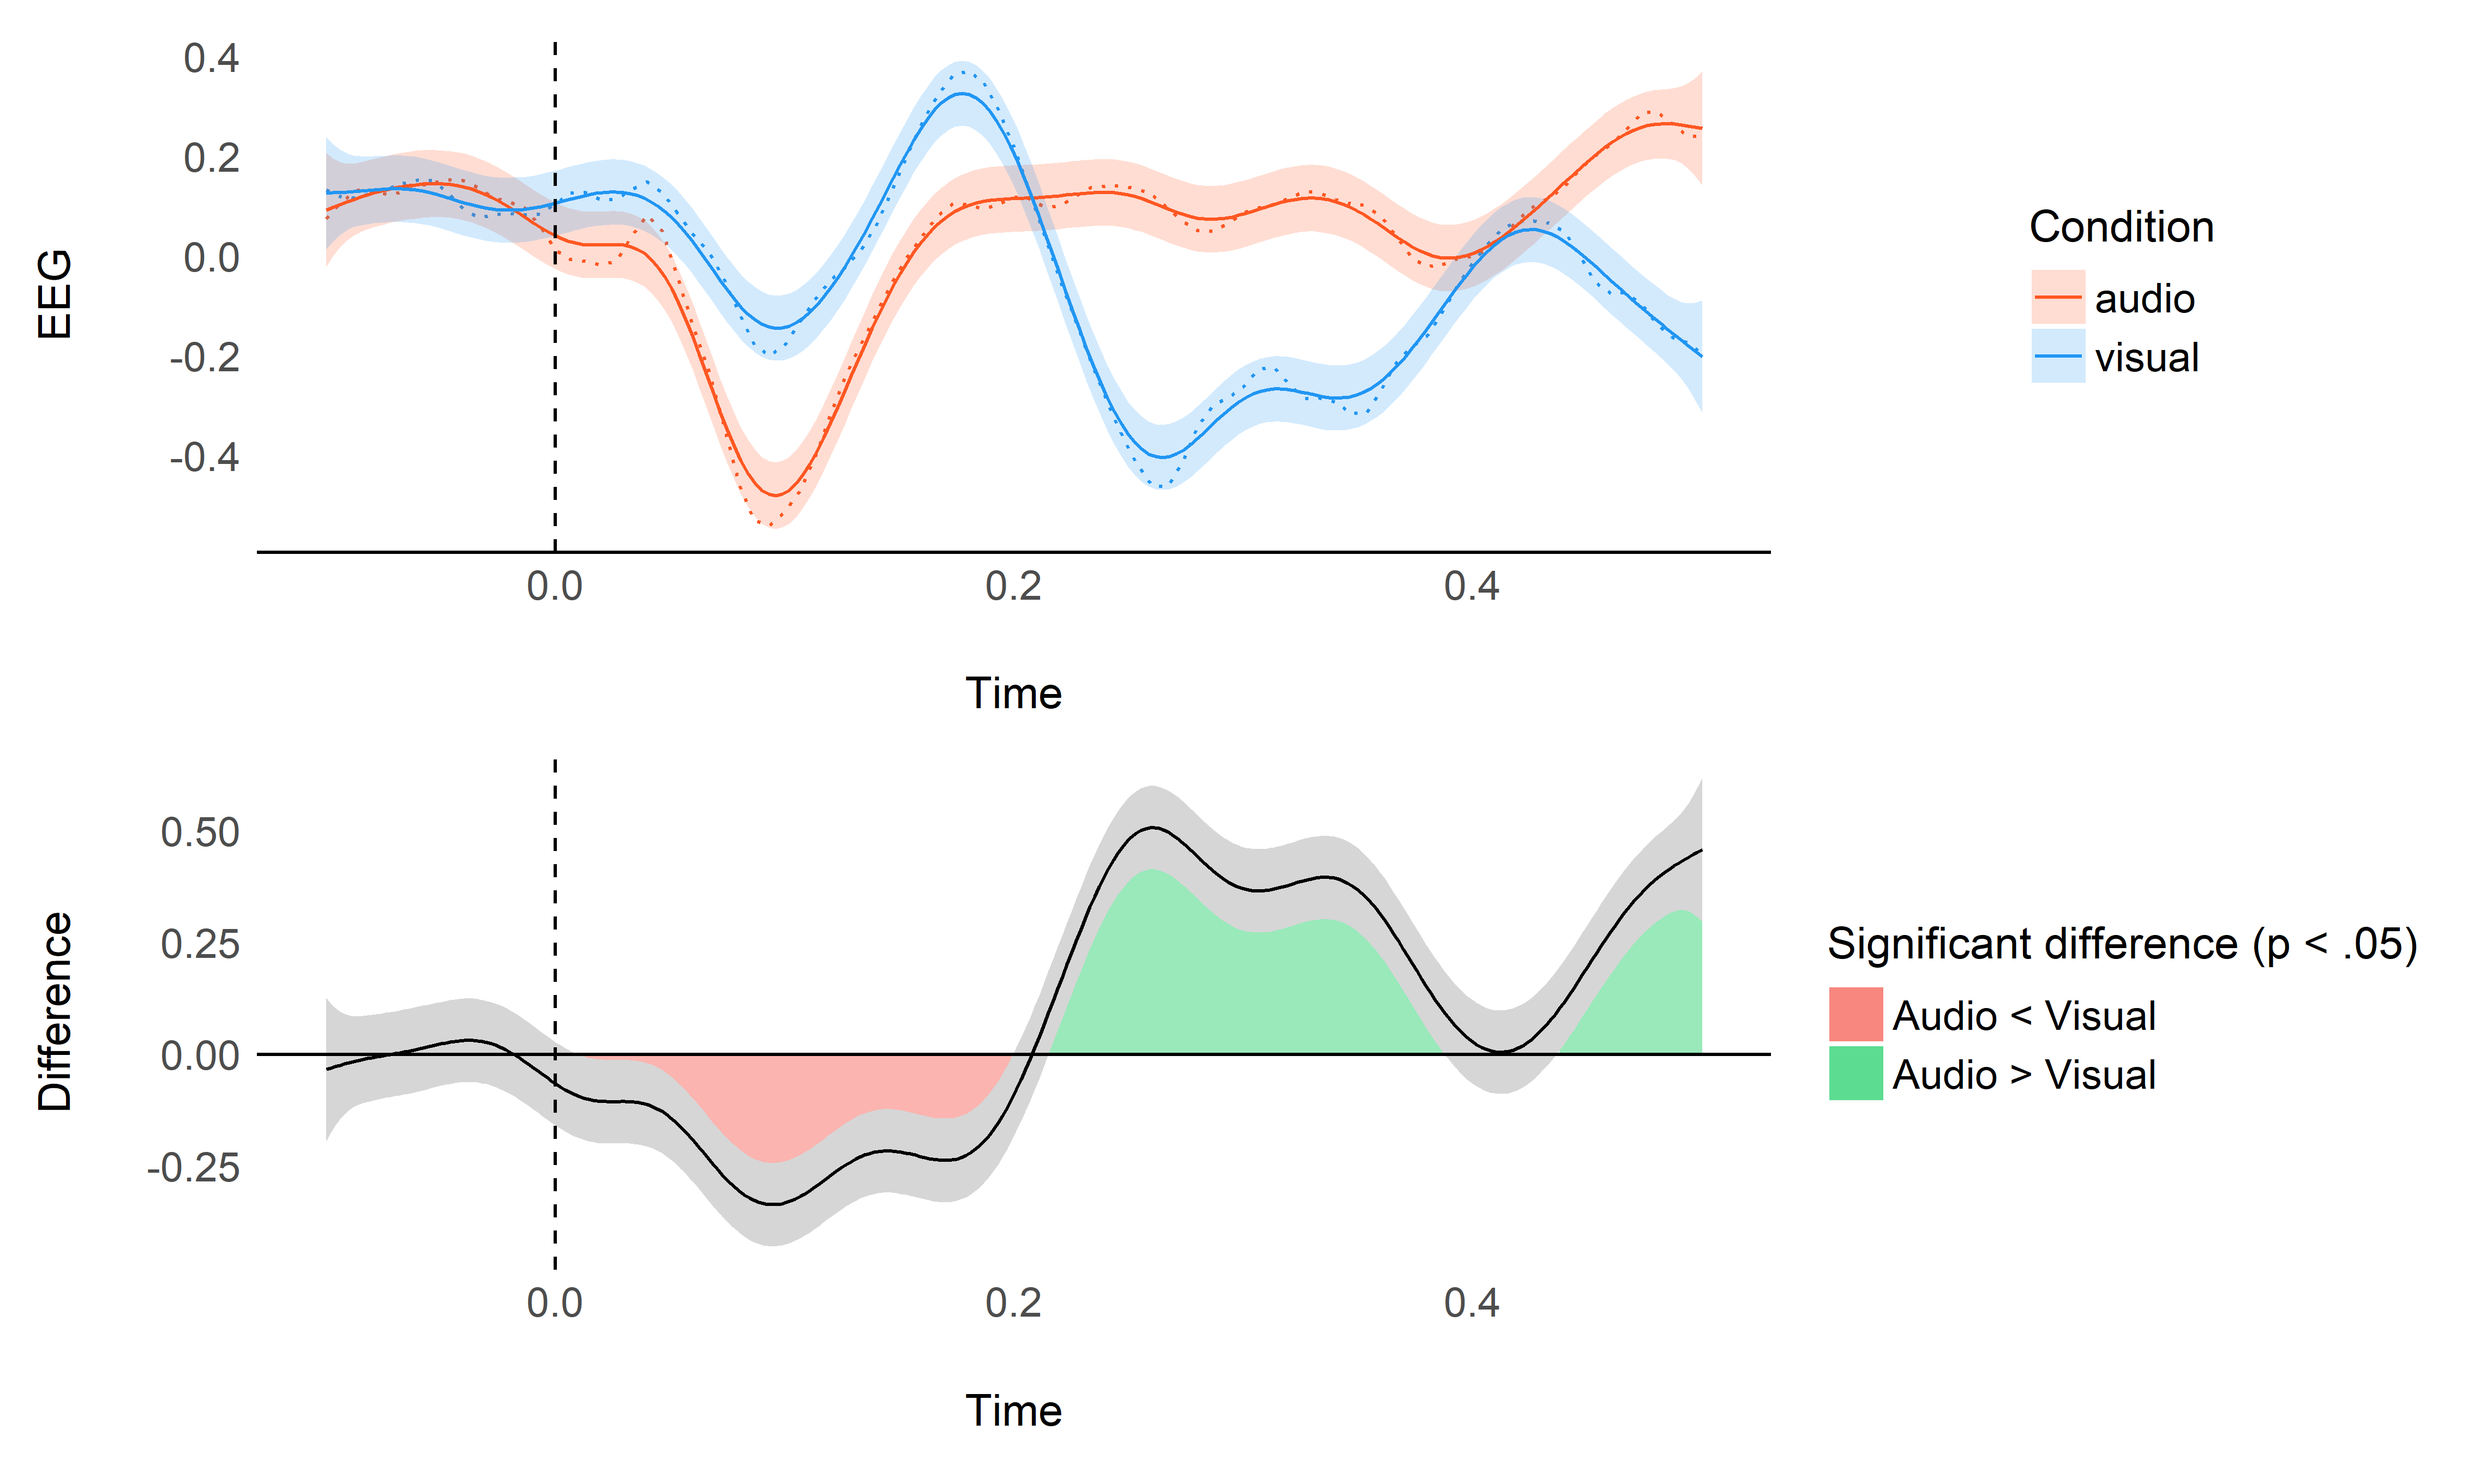
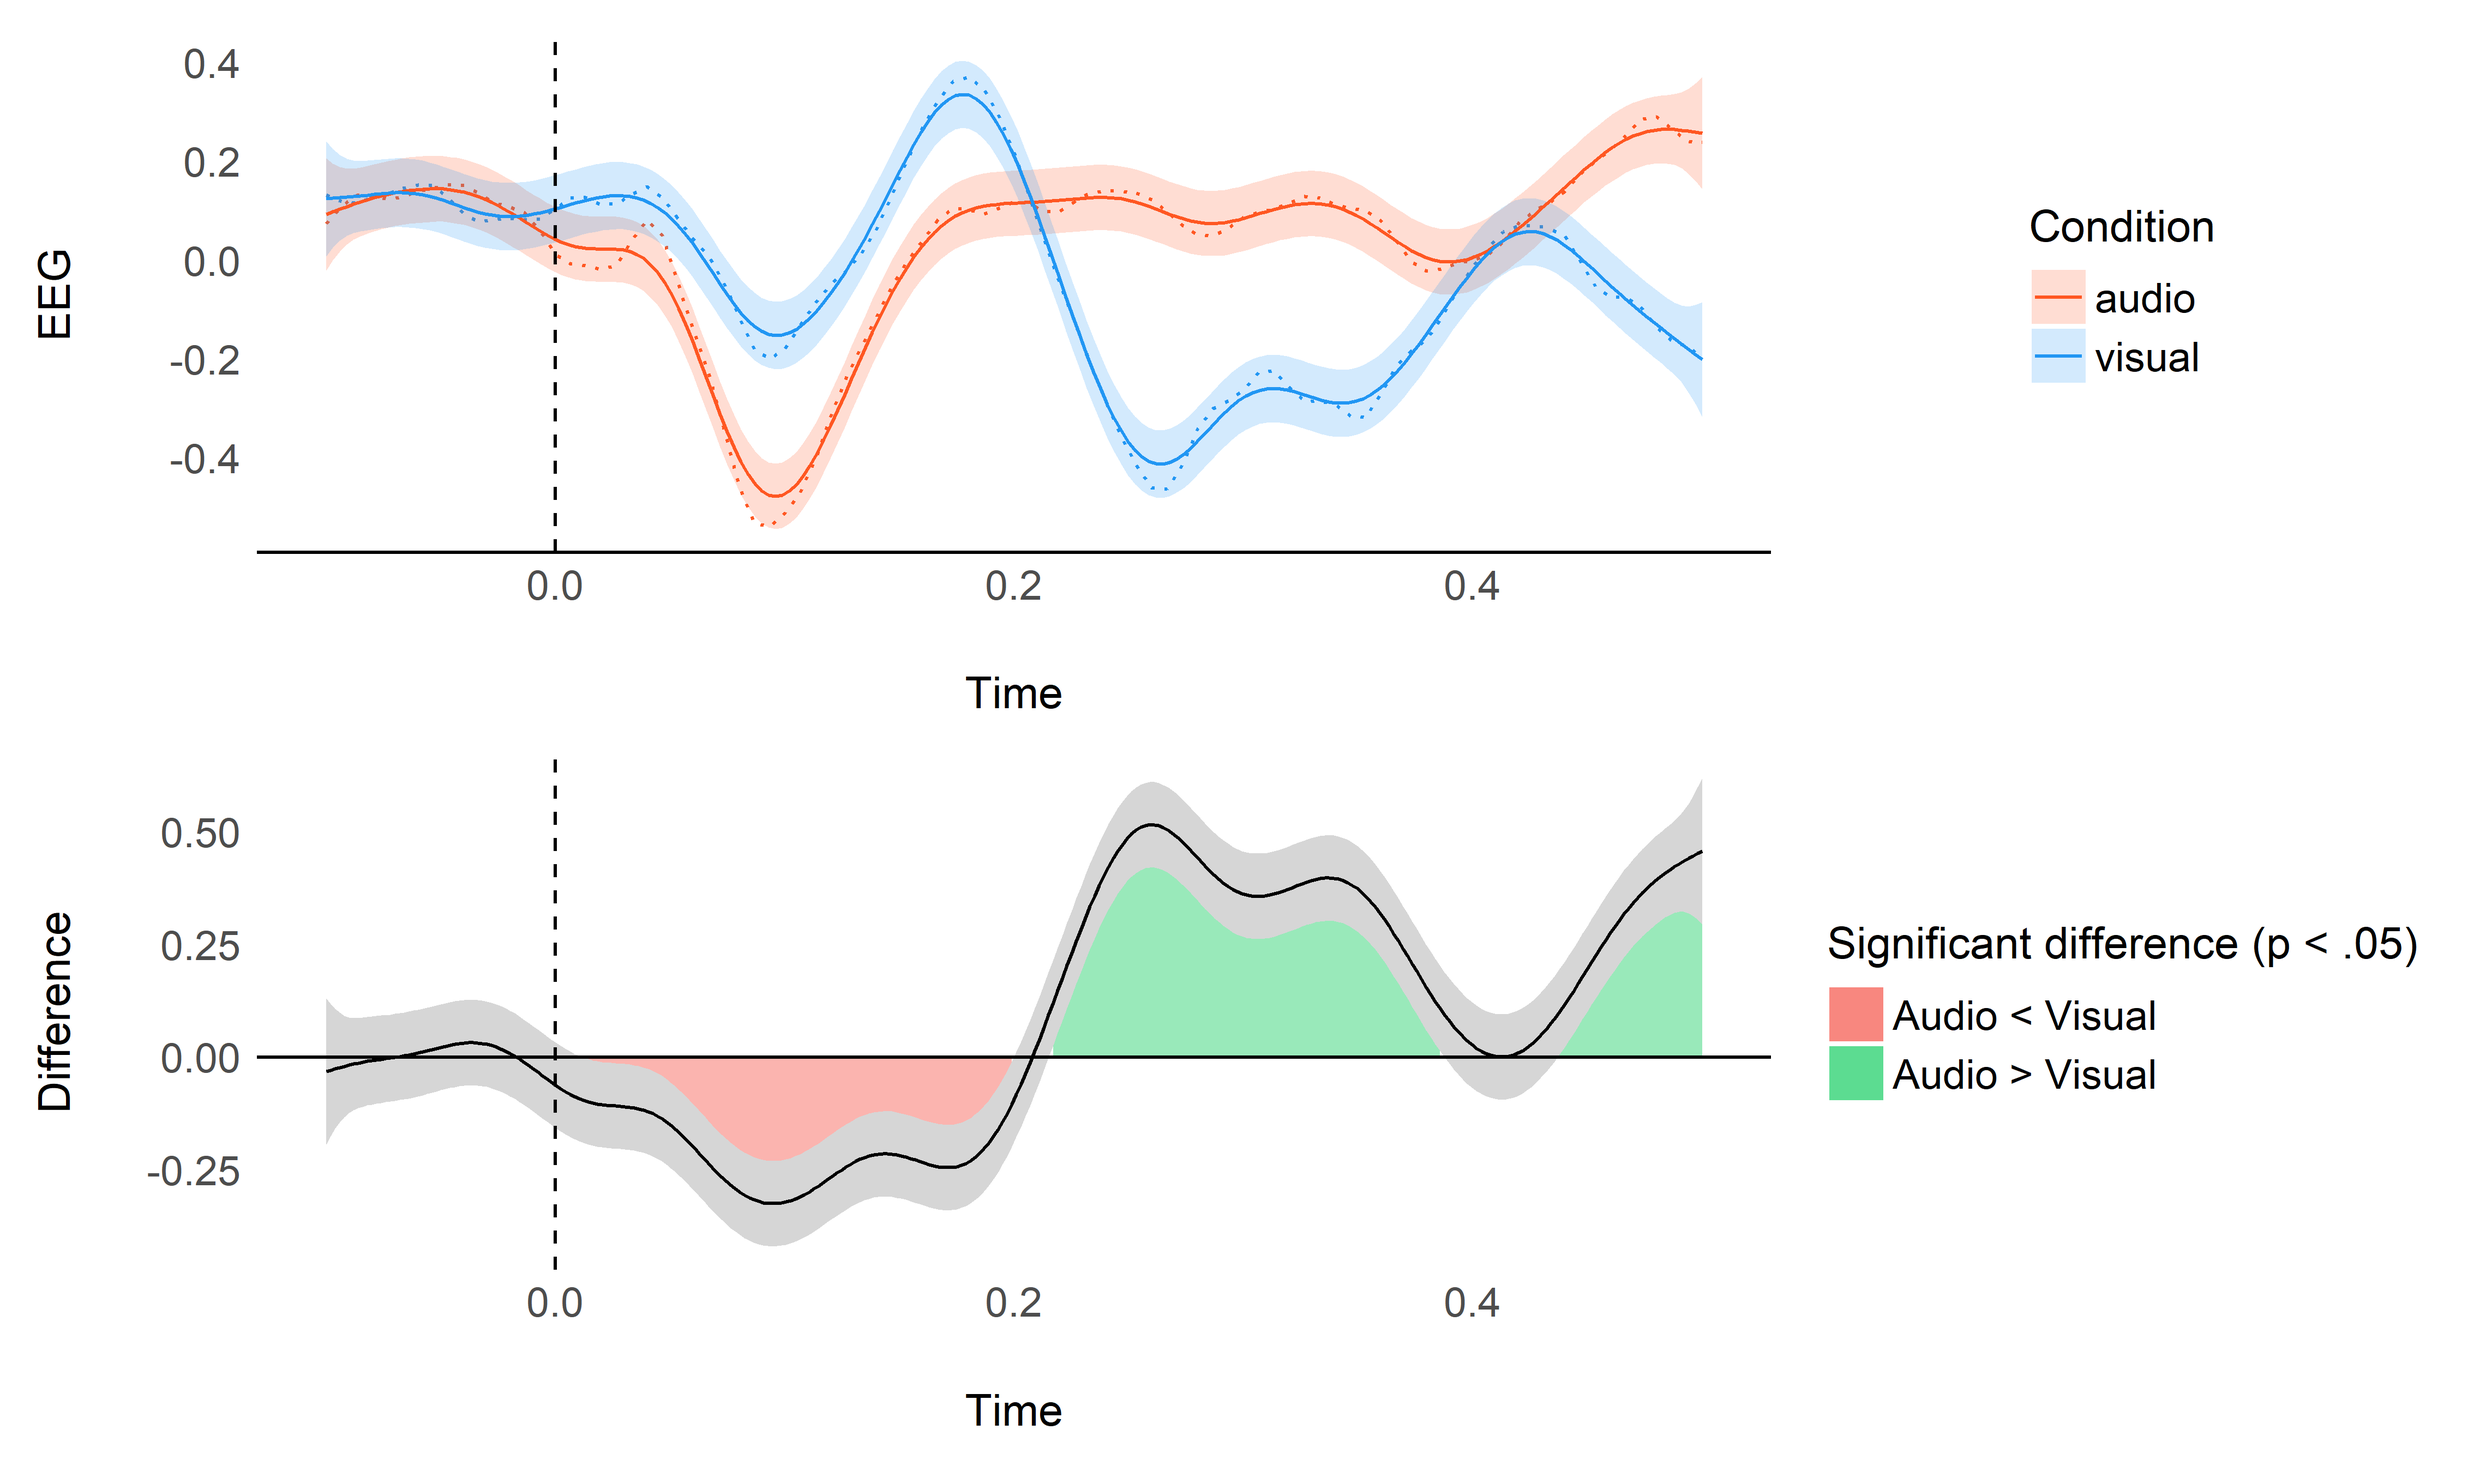
REML to gam

diff --git a/studies/erp_gam/README.md b/studies/erp_gam/README.md
@@ -95,29 +95,21 @@ fig, (ax0, ax1, ax2) = plt.subplots(nrows=3, ncols=1, sharex=True)
 
 times = epochs.times
 ax0.axvline(x=0, linestyle="--", color="black")
-## <matplotlib.lines.Line2D object at 0x00000000BFB4DC70>
 ax0.plot(times, np.mean(condition1, axis=0), label="Audio")
-## [<matplotlib.lines.Line2D object at 0x00000000BFB66370>]
 ax0.plot(times, np.mean(condition2, axis=0), label="Visual")
-## [<matplotlib.lines.Line2D object at 0x00000000BFB66700>]
 ax0.legend(loc="upper right")
-## <matplotlib.legend.Legend object at 0x00000000BFB66970>
 ax0.set_ylabel("uV")
 
 # Difference
-## Text(0, 0.5, 'uV')
 ax1.axvline(x=0, linestyle="--", color="black")
-## <matplotlib.lines.Line2D object at 0x00000000BFB66880>
 ax1.plot(times, condition1.mean(axis=0) - condition2.mean(axis=0))
-## [<matplotlib.lines.Line2D object at 0x00000000BFB790A0>]
 ax1.axhline(y=0, linestyle="--", color="black")
-## <matplotlib.lines.Line2D object at 0x00000000BFB6DF10>
+## <matplotlib.lines.Line2D object at 0x00000000BFB5C490>
 ax1.set_ylabel("Difference")
 
 # T-values
 ## Text(0, 0.5, 'Difference')
 ax2.axvline(x=0, linestyle="--", color="black")
-## <matplotlib.lines.Line2D object at 0x00000000BFB66D90>
 h = None
 for i, c in enumerate(clusters):
     c = c[0]
@@ -131,16 +123,12 @@ for i, c in enumerate(clusters):
                     times[c.stop - 1],
                     color=(0.3, 0.3, 0.3),
                     alpha=0.3)
-## <matplotlib.patches.Polygon object at 0x00000000BFB79940>
-## <matplotlib.patches.Polygon object at 0x00000000BFB86250>
 hf = ax2.plot(times, t_vals, 'g')
 if h is not None:
     plt.legend((h, ), ('cluster p-value < 0.05', ))
-## <matplotlib.legend.Legend object at 0x00000000BFB79D00>
+## <matplotlib.legend.Legend object at 0x00000000BFB5CF10>
 plt.xlabel("time (ms)")
-## Text(0.5, 0, 'time (ms)')
 plt.ylabel("t-values")
-## Text(0, 0.5, 't-values')
 plt.savefig("figures/fig2.png")
 plt.clf()
 ```
@@ -251,7 +239,7 @@ difference between the two conditions.
 ``` r
 library(mgcv)
 
-model <- mgcv::gam(EEG ~ Condition + s(Time, by = Condition), data=data)
+model <- mgcv::gam(EEG ~ Condition + s(Time, by = Condition), data=data, method="REML")
 ```
 
 ``` r
@@ -265,20 +253,21 @@ It is possible to increase the number of degrees of freedom.
 ``` r
 gam.check(model)
 ## 
-## Method: GCV   Optimizer: magic
-## Smoothing parameter selection converged after 10 iterations.
-## The RMS GCV score gradient at convergence was 1.61e-06 .
-## The Hessian was positive definite.
+## Method: REML   Optimizer: outer newton
+## full convergence after 7 iterations.
+## Gradient range [-0.00982,0.00773]
+## (score 36811 & scale 0.968).
+## Hessian positive definite, eigenvalue range [3.28,13102].
 ## Model rank =  20 / 20 
 ## 
 ## Basis dimension (k) checking results. Low p-value (k-index<1) may
 ## indicate that k is too low, especially if edf is close to k'.
 ## 
 ##                           k'  edf k-index p-value
-## s(Time):Conditionaudio  9.00 8.85    1.01    0.70
-## s(Time):Conditionvisual 9.00 8.93    1.01    0.66
+## s(Time):Conditionaudio  9.00 8.65    0.99    0.34
+## s(Time):Conditionvisual 9.00 8.81    0.99    0.41
 
-model <- mgcv::gam(EEG ~ Condition + s(Time, by = Condition, k = 0.05 * 600), data=data)
+model <- mgcv::gam(EEG ~ Condition + s(Time, by = Condition, k = 0.05 * 600), data=data, method="REML")
 ```
 
 ``` r
